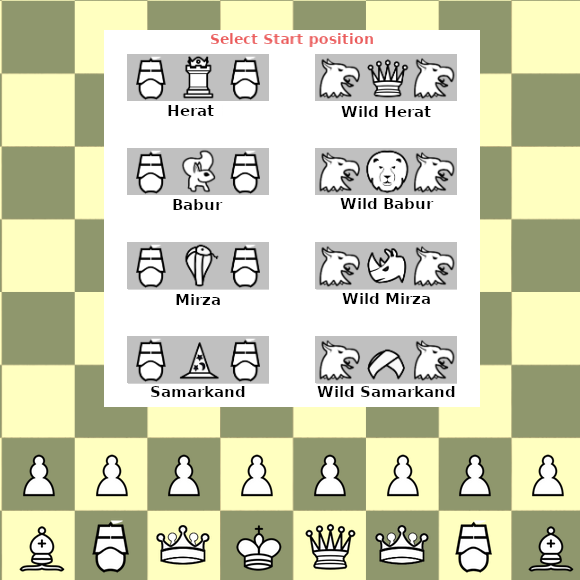
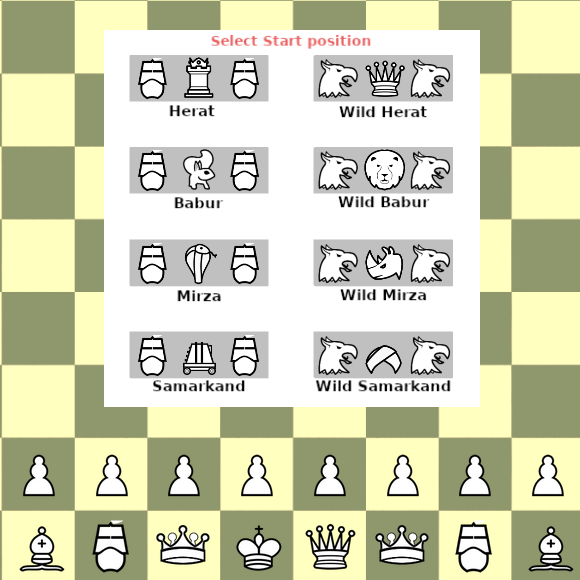
use osprey in timurid as an emir

diff --git a/src/games/chessbase/duodecimal/timurid-model.js b/src/games/chessbase/duodecimal/timurid-model.js
@@ -270,22 +270,27 @@
       initial: [],
       },
       17: {
+      // Same piece as before - name, letter and appearance unchanged - but it
+      // now moves as an Osprey: a two-square orthogonal leap, jumping over
+      // whatever stands in between, then an unlimited diagonal ride away from
+      // where it started. It may also stop on the square it leapt to.
       name : 'emir',
       abbrev : 'C',
       aspect : 'fr-caliph',
-      graph : this.cbMergeGraphs(geometry,
-                  this.cbShortRangeGraph(geometry,[[-1,-1],[1,1],[1,-1],[-1,1]]),
-                  this.cbKnightGraph(geometry),
-                  this.cbCamelGraph(geometry)),
-      value : 8,
+      graph : this.cbOspreyGraph(geometry,confine),
+      value : 7,
       initial: [],
       },
       18: {
-      name : 'wizard',
-      abbrev : 'W',
-      aspect : 'fr-wizard',
-      graph : this.cbWizardGraph(geometry,confine),
-      value : 4.5,
+      // The Machine of the other Cazaux games (Zanzibar-S, Gigachess,
+      // Terachess, Bigorra): Wazir plus Dabbaba, one or two squares
+      // orthogonally, the two-square version jumping. It replaces the Wizard
+      // as the piece that promotes into the Emir.
+      name : 'machine',
+      abbrev : 'D',
+      aspect : 'fr-machine',
+      graph : this.cbShortRangeGraph(geometry,[[-1,0],[-2,0],[1,0],[2,0],[0,1],[0,2],[0,-1],[0,-2]],confine),
+      value : 3.5,
       initial: [],
       },
       19: {
@@ -329,7 +334,7 @@
         var T_snake=15
         var T_rhino=16
         var T_emir=17
-        var T_wizard=18
+        var T_machine=18
         var T_squirrel=19
         var T_amiral=20
 		return {
@@ -348,7 +353,7 @@
 					return [T_eagle];
                 if (piece.t==T_snake && ((geometry.R(move.t)==lastRow && piece.s > 0) || (geometry.R(move.t)==firstRow && piece.s < 0)) ) 
 					return [T_rhino];
-                if (piece.t==T_wizard && ((geometry.R(move.t)==lastRow && piece.s > 0) || (geometry.R(move.t)==firstRow && piece.s < 0)) ) 
+                if (piece.t==T_machine && ((geometry.R(move.t)==lastRow && piece.s > 0) || (geometry.R(move.t)==firstRow && piece.s < 0)) ) 
 					return [T_emir];
                 if (piece.t==T_squirrel && ((geometry.R(move.t)==lastRow && piece.s > 0) || (geometry.R(move.t)==firstRow && piece.s < 0)) ) 
 					return [T_lion];
@@ -362,7 +367,7 @@
 			prelude: [{
 				panelWidth: 2, // two buttons per row 
 				panelBackground: "/res/rules/duodecimal/timurid-parameter-panel.png",
-				setups: ["XAX","HQH","XYX","HLH","XSX","HUH","XWX","HCH"], 
+				setups: ["XAX","HQH","XYX","HLH","XSX","HUH","XDX","HCH"], 
 				castle: [ undefined, undefined, undefined, undefined, undefined, undefined, undefined],
 				squares: { 1:[15,18,20], '-1':[99,102,104] },
 				//participants: promoChoice, // adapt the auto-generated promotion choice to the selected variant

diff --git a/src/games/chessbase/manifest/duodecimal.js b/src/games/chessbase/manifest/duodecimal.js
@@ -110,8 +110,8 @@ var config_model_levels_timurid_ini = [
 	"bers = a",
 	"customPiece1 = i:KmfR2",
 	"customPiece2 = j:C",
-	"customPiece3 = w:FC",
-	"customPiece4 = c:FNC",
+	"customPiece3 = d:WD",
+	"customPiece4 = c:yD",
 	"customPiece5 = y:NAD",
 	"customPiece6 = l:KNAD",
 	"customPiece7 = h:yF",
@@ -125,11 +125,11 @@ var config_model_levels_timurid_ini = [
 	"promotionRegionWhite = *10",
 	"promotionRegionBlack = *1",
 	"promotionPieceTypes = q",
-	"promotedPieceType = i:q x:h s:u w:c y:l a:q",
+	"promotedPieceType = i:q x:h s:u d:c y:l a:q",
 	"mandatoryPiecePromotion = true",
 	"enPassantTargetTypes = i",
-	"pieceValueMg = r:1276 b:960 n:760 q:2481 a:1836 h:2097 u:1804 x:1082 s:820 c:2090 w:1175 y:1651 l:1767 e:761 j:672 z:859 i:917",
-	"pieceValueEg = r:1380 b:1038 n:822 q:2683 a:1985 h:2268 u:1951 x:1170 s:887 c:2261 w:1270 y:1786 l:1911 e:823 j:727 z:929 i:992",
+	"pieceValueMg = r:1276 b:960 n:760 q:2481 a:1836 h:2097 u:1804 x:1082 s:820 c:1830 d:900 y:1651 l:1767 e:761 j:672 z:859 i:917",
+	"pieceValueEg = r:1380 b:1038 n:822 q:2683 a:1985 h:2268 u:1951 x:1170 s:887 c:1979 d:973 y:1786 l:1911 e:823 j:727 z:929 i:992",
 	"[timurid-hqh:timurid-xax]",
 	"startFen = e1j1z2z1j1e/rnbhikqihbnr/pppppppppppp/12/12/12/12/PPPPPPPPPPPP/RNBHIKQIHBNR/E1J1Z2Z1J1E w - - 0 1",
 	"[timurid-xyx:timurid-xax]",
@@ -140,8 +140,8 @@ var config_model_levels_timurid_ini = [
 	"startFen = e1j1z2z1j1e/rnbxiksixbnr/pppppppppppp/12/12/12/12/PPPPPPPPPPPP/RNBXIKSIXBNR/E1J1Z2Z1J1E w - - 0 1",
 	"[timurid-huh:timurid-xax]",
 	"startFen = e1j1z2z1j1e/rnbhikuihbnr/pppppppppppp/12/12/12/12/PPPPPPPPPPPP/RNBHIKUIHBNR/E1J1Z2Z1J1E w - - 0 1",
-	"[timurid-xwx:timurid-xax]",
-	"startFen = e1j1z2z1j1e/rnbxikwixbnr/pppppppppppp/12/12/12/12/PPPPPPPPPPPP/RNBXIKWIXBNR/E1J1Z2Z1J1E w - - 0 1",
+	"[timurid-xdx:timurid-xax]",
+	"startFen = e1j1z2z1j1e/rnbxikdixbnr/pppppppppppp/12/12/12/12/PPPPPPPPPPPP/RNBXIKDIXBNR/E1J1Z2Z1J1E w - - 0 1",
 	"[timurid-hch:timurid-xax]",
 	"startFen = e1j1z2z1j1e/rnbhikcihbnr/pppppppppppp/12/12/12/12/PPPPPPPPPPPP/RNBHIKCIHBNR/E1J1Z2Z1J1E w - - 0 1"
 ].join("\n");
@@ -163,8 +163,8 @@ var config_model_levels_timurid_expert = {
 		{ "setup": 3, "variant": "timurid-hlh" },   // HLH: griffon, lion, griffon
 		{ "setup": 4, "variant": "timurid-xsx" },   // XSX: ship, snake, ship
 		{ "setup": 5, "variant": "timurid-huh" },   // HUH: griffon, rhino, griffon
-		{ "setup": 6, "variant": "timurid-xwx" },   // XWX: ship, wizard, ship
-		{ "setup": 7, "variant": "timurid-hch" }    // HCH: griffon, emir, griffon
+		{ "setup": 6, "variant": "timurid-xdx" },   // XDX: ship, machine, ship
+		{ "setup": 7, "variant": "timurid-hch" }    // HCH: griffon, emir (osprey), griffon
 	]
 }
 

diff --git a/src/games/chessbase/fairy-piece-model.js b/src/games/chessbase/fairy-piece-model.js
@@ -19,7 +19,10 @@
 		var graph = {};
 		var $this=this;
 
-		function SkiSlide(start, vec, flags, bend, iflags, range) { // trace out bent trajectory
+		// 'again' marks the second fork of a bent move: the corner square has
+		// already been offered as a destination by the first fork, so here it is
+		// only passed through - it still blocks the ride when occupied.
+		function SkiSlide(start, vec, flags, bend, iflags, range, again) { // trace out bent trajectory
 			var path = [], f = iflags, corner = geometry.Graph(start, vec), brouhaha=0;
 			while(f < -1 && corner) corner = geometry.Graph(corner, vec), f++; // negative iflags jump to corner
 			if(corner != null) {
@@ -29,7 +32,7 @@
 					if(confine[corner]=='b') f &= ~(brouhaha=c.FLAG_MOVE|c.FLAG_SPECIAL); // not to empty brouhaha squares
 				}
 				var vec2 = Rotate(vec, bend);
-				if(f>=0 && iflags != c.FLAG_STOP) // defer adding stop until something follows it
+				if(f>=0 && iflags != c.FLAG_STOP && !again) // defer adding stop until something follows it
 					path.push(corner | f);    // use iflags on 1st square if it did not indicate skipping
 				if(brouhaha) return; // never past occupied brouhaha square
 				for(var n=1; n<range; n++) {
@@ -40,7 +43,7 @@
 						if(confine[pos]=='b') flags &= ~(brouhaha=c.FLAG_MOVE|c.FLAG_SPECIAL);
 						if(!flags) break;
 					}
-					if(n == 1 && iflags == c.FLAG_STOP) path.push(corner | c.FLAG_STOP);
+					if(n == 1 && (iflags == c.FLAG_STOP || again)) path.push(corner | c.FLAG_STOP);
 					path.push(pos | flags);
 					if(brouhaha) break; // never past occupied brouhaha square
 			}	}
@@ -56,7 +59,7 @@
 			graph[pos] = [];
 			stepSet.forEach(function(vec){
 				SkiSlide(pos, vec, flags2, bend, flags1, range);
-				if(bend&3 && bend>0) SkiSlide(pos, vec, flags2, -bend, (flags1<0 ? flags1 : c.FLAG_STOP), range); // for bent: both forks
+				if(bend&3 && bend>0) SkiSlide(pos, vec, flags2, -bend, flags1, range, true); // for bent: both forks
 			});
 		}
 		return graph;
@@ -143,6 +146,13 @@
 
 	Model.Game.cbRhinoGraph = function(geometry,confine) {
 		return this.cbSkiGraph(geometry,[[1,0],[0,1],[-1,0],[0,-1]],1);
+	}
+
+	// Osprey: leaps two squares orthogonally, jumping whatever stands in
+	// between, then rides out diagonally. The -2 tells SkiSlide to take the
+	// first leg twice before turning.
+	Model.Game.cbOspreyGraph = function(geometry,confine) {
+		return this.cbSkiGraph(geometry,[[1,0],[0,1],[-1,0],[0,-1]],1,-2);
 	}
 
 	Model.Game.cbLionGraph = function(geometry,confine) {

diff --git a/tests/fairy/timurid.test.js b/tests/fairy/timurid.test.js
@@ -55,10 +55,18 @@ t.check("Snake: a vertical step then a diagonal ray", reach("snake", "g5"), 16);
 t.check("Lion: everything one or two squares away", reach("lion", "g5"), 24);
 // "Squirrel: jumps at 2 squares"
 t.check("Squirrel: the ring two squares out", reach("squirrel", "g5"), 16);
-// "Wizard: a compound of the Ferz and the Camel"
-t.check("Wizard: Ferz and Camel", reach("wizard", "g5"), 12);
-// "Emir: combines the move of the Camel, the Knight and the ferz"
-t.check("Emir: Camel, Knight and Ferz", reach("emir", "g5"), 20);
+// The Machine of the other Cazaux games, in the Samarkand setups where the
+// Wizard used to stand: Wazir plus Dabbaba, so eight squares in the open.
+t.check("Machine: Wazir and Dabbaba", reach("machine", "g5"), 8);
+// The Emir keeps its name, letter and appearance but moves as an Osprey now:
+// a two-square orthogonal leap, then a diagonal ride away from the start.
+t.check("Emir: an Osprey, leap then diagonal ride", reach("emir", "g5"), 28);
+// It leaps, so a piece on the square in between changes nothing: g7 is still
+// reachable, and so is the diagonal ride that starts there.
+t.check("Emir: the square leapt over is irrelevant",
+	movesFrom({ g5: "wC", g6: "wP" }, "g5").indexOf("g5g7") >= 0, true);
+t.check("Emir: but the square it lands on does block the ride",
+	movesFrom({ g5: "wC", g7: "bP" }, "g5").filter((m) => /^g5[hf]8$/.test(m)), []);
 // "Admiral: a Rook that can also step one space diagonally"
 t.check("Admiral: Rook and a King's step",
 	reach("amiral", "g5"), reach("rook", "g5") + 4);
@@ -109,7 +117,7 @@ const promotesTo = (name) => {
 		{ t: to, f: to - geo.width, c: null }) || []).map((into) => types[into].name);
 };
 [["ipawnw", "queen"], ["ship", "griffon"], ["snake", "rhino"],
- ["squirrel", "lion"], ["wizard", "emir"], ["princew", "queen"]].forEach(([piece, into]) => {
+ ["squirrel", "lion"], ["machine", "emir"], ["princew", "queen"]].forEach(([piece, into]) => {
 	t.check(piece + " promotes to " + into, promotesTo(piece), [into]);
 });
 /*
@@ -121,7 +129,7 @@ t.check("the Admiral promotes to a Queen as well", promotesTo("amiral"), ["queen
 // and nothing else does
 t.check("no other piece promotes",
 	Object.keys(types).filter((k) => promotesTo(types[k].name).length
-		&& ["ipawnw", "ipawnb", "ship", "snake", "squirrel", "wizard",
+		&& ["ipawnw", "ipawnb", "ship", "snake", "squirrel", "machine",
 			"princew", "princeb", "amiral"].indexOf(types[k].name) < 0)
 		.map((k) => types[k].name), []);
 

diff --git a/src/games/chessbase/res/rules/duodecimal/timurid-rules.html b/src/games/chessbase/res/rules/duodecimal/timurid-rules.html
@@ -88,21 +88,21 @@ Initial Position for Wild Babur, one of the possible variant :
 <p>
 <img class='piece-graph' src='{GAME}/res/rules/graphs/rhinoceros.png'>
 </p>
-<h2>Wizard</h2>
+<h2>Machine</h2>
 <p>
-<img style="max-width:100%;" src="{GAME}/res/rules/fairy/wizard.png"/>
+<img style="max-width:100%;" src="{GAME}/res/rules/fairy/machine.png"/>
 </p>
-<p class='piece-details'>The Wizard moves one space diagonally or leaps to a space one file and three ranks away or three files and one rank away. It is a compound of the Ferz and the Camel. It was introduced in Omega Chess, and it moves the same as it does in that game. The Wizard can promote to Emir.</p>
+<p class='piece-details'>It moves 1 or 2 cases orthogonally, jumping over the first case if it is occupied. Then, it combines the moves of old Dabbaba and Wazir found in ancient Muslim Chess variants. In this game, when the Machine reaches the last row it promotes to a Lion. The Machine can promote to Emir.</p>
 <div style='clear:both'></div>
 <p>
-<p>
-<img class='piece-graph' src='{GAME}/res/rules/graphs/wizard.png'>
+<img class='piece-graph' src='{GAME}/res/rules/graphs/machine.png'>
 </p>
+
 <h2>Emir</h2>
 <p>
 <img style="max-width:100%;" src="{GAME}/res/rules/fairy/caliph.png"/>
 </p>
-<p class='piece-details'>Combines the move of the Camel, the Knight and the ferz.</p>
+<p class='piece-details'>leaps to the second square orthogonally (the Dabbaba's leap), then slides outward diagonally like the Bishop.</p>
 <div style='clear:both'></div>
 <p>
 <img class='piece-graph' src='{GAME}/res/rules/duodecimal/emir.png'>

diff --git a/src/games/chessbase/res/rules/duodecimal/timurid-rules_fr.html b/src/games/chessbase/res/rules/duodecimal/timurid-rules_fr.html
@@ -90,21 +90,22 @@
 <p>
 <img class='piece-graph' src='{GAME}/res/rules/graphs/lion.png'>
 </p>
-<h2>Enchanteur</h2>
+
+<h2>Machine</h2>
 <p>
-<img style="max-width:100%;" src="{GAME}/res/rules/fairy/wizard.png"/>
+<img style="max-width:100%;" src="{GAME}/res/rules/fairy/machine.png"/>
 </p>
-<p class='piece-details'>L’Enchanteur se déplace d'une case en diagonale ou saute vers une case située à une colonne et trois rangs de distance ou à trois colonnes et un rang de distance. Il s'agit d'un composé du Ferz et du Chameau.Il peut être promu en Émir</p>
+<p class='piece-details'>Se déplace orthogonalement de une ou 2 cases orthogonalement, elle peut sauter la première case. Elle peut être promue en Émir</p>
 <div style='clear:both'></div>
 <p>
-<p>
-<img class='piece-graph' src='{GAME}/res/rules/graphs/wizard.png'>
+<img class='piece-graph' src='{GAME}/res/rules/graphs/machine.png'>
 </p>
+
 <h2>Émir</h2>
 <p>
 <img style="max-width:100%;" src="{GAME}/res/rules/fairy/caliph.png"/>
 </p>
-<p class='piece-details'>Combine le mouvement du chameau, du cavalier et du ferz (1 case en diagonale).</p>
+<p class='piece-details'>Saute de deux cases orthogonalement puis se déplace en diagonale comme un fou.</p>
 <div style='clear:both'></div>
 <p>
 <img class='piece-graph' src='{GAME}/res/rules/duodecimal/emir.png'>

diff --git a/src/games/chessbase/res/rules/gigachess/gigachessII-rules_fr.html b/src/games/chessbase/res/rules/gigachess/gigachessII-rules_fr.html
@@ -219,7 +219,7 @@
 <p>
 <img style="max-width:100%;" src="{GAME}/res/rules/fairy/machine.png"/>
 </p>
-<p class='piece-details'>C’est l’équivalent orthogonal de l’Éléphant, il peut sauter la première case.</p>
+<p class='piece-details'>C’est l’équivalent orthogonal de l’Éléphant, elle peut sauter la première case.</p>
 <div style='clear:both'></div>
 <p>
 <img class='piece-graph' src='{GAME}/res/rules/graphs/machine.png'>
